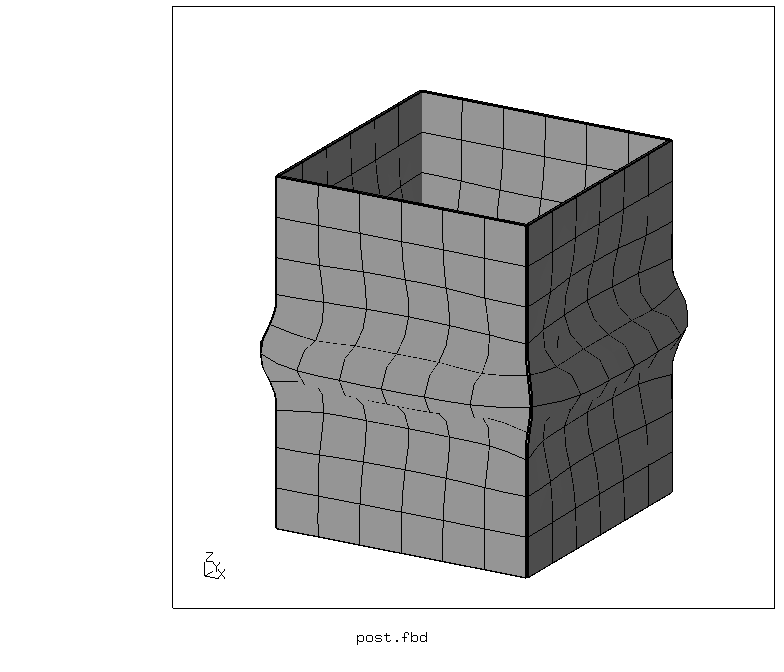
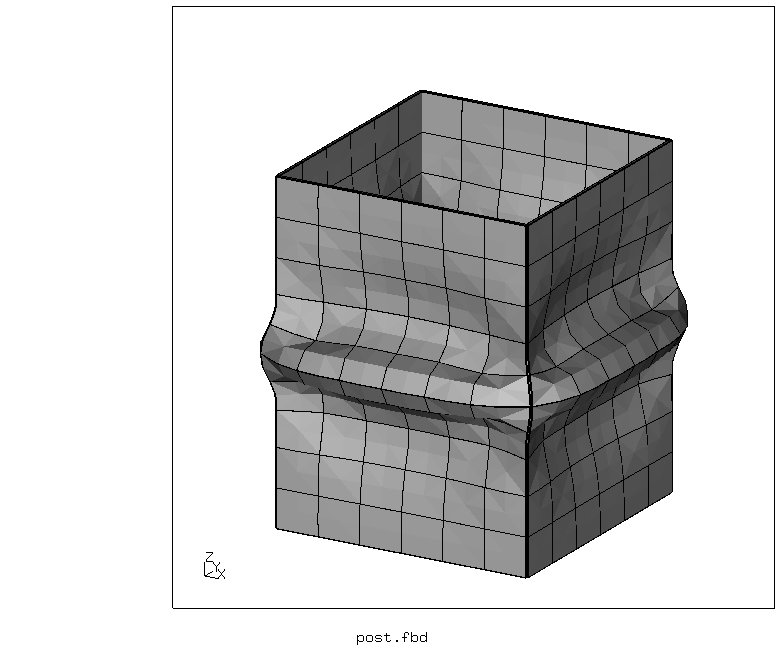
update to reflect fix of issue #3

Changed region(s): [[0.3367, 0.4062, 0.8571, 0.6875], [0.7959, 0.375, 0.8878, 0.4688]]

diff --git a/Kasten/README.md b/Kasten/README.md
@@ -1,5 +1,5 @@
 # Non-linear Buckling
-Tested with CGX/CCX 2.9 
+Tested with CGX 2.10/CCX 2.9
 
 + Large displacements
 + Plasticity
@@ -85,6 +85,4 @@ U,RF
 ```
 cgx -b post.fbd
 ```
-Note that you have to create the screenshot in the interactive mode of CGX. Otherwise the shading is taken in the undeformed state.
-
-<img src="hcpy_2.png" width="300"><img src="deformed.png" width="300">
+<img src="deformed.png" width="300">
